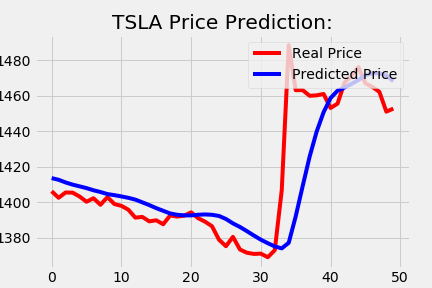
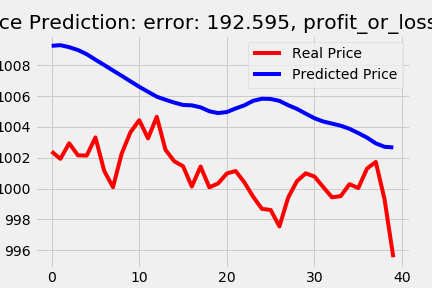
calculate prediction for next 30 mins

diff --git a/forecast/tsla_price_prediction.py b/forecast/tsla_price_prediction.py
@@ -20,7 +20,7 @@ plt.style.use("fivethirtyeight")
 
 df = pd.read_csv("../data/TSLA.csv")
 df = df.filter(["closePrice"])
-df = df.tail(1000)
+df = df.tail(10000)
 
 dataset = df.values
 
@@ -35,10 +35,11 @@ train_data = scaled_data[0:training_data_len, :]
 BATCH_SIZE = 60
 x_train = []
 y_train = []
+NEXT_PREDICTION_STEP = 30
 
-for i in range(BATCH_SIZE, len(train_data)):
+for i in range(BATCH_SIZE, len(train_data) - NEXT_PREDICTION_STEP):
     x_train.append(train_data[i - BATCH_SIZE : i, 0])
-    y_train.append(train_data[i, 0])
+    y_train.append(train_data[i + NEXT_PREDICTION_STEP, 0])
 
 x_train, y_train = np.array(x_train), np.array(y_train)
 x_train = np.reshape(x_train, (x_train.shape[0], x_train.shape[1], 1))
@@ -68,27 +69,27 @@ history = model.fit(
 test_data = scaled_data[training_data_len - BATCH_SIZE :, :]
 
 x_test = []
-y_test = dataset[training_data_len:, :]
+y_test = dataset[training_data_len + NEXT_PREDICTION_STEP :, :]
+y_test_previous = dataset[training_data_len:-NEXT_PREDICTION_STEP, :]
 
-for i in range(BATCH_SIZE, len(test_data)):
+for i in range(BATCH_SIZE, len(test_data) - NEXT_PREDICTION_STEP):
     x_test.append(test_data[i - BATCH_SIZE : i, :])
-    # y_test.append(test_data[i, 0])
 
 x_test = np.array(x_test)
-# x_test, y_test = np.array(x_test), np.array(y_test)
-
-
-#%% Evaluate Model
-model_evaluation_result = model.evaluate(x_test, y_test, batch_size=BATCH_SIZE)
-print(model_evaluation_result)
 
 # %% Run Prediction
 y_predict = model.predict(x_test)
 y_predict = scaler.inverse_transform(y_predict)
 
 #%% Calculate root mean square error
-rmse = np.sqrt(np.mean(((y_predict - y_test) ** 2)))
-print(rmse)
+error = sum(abs(y_predict - y_test))[0]
+
+profit_or_loss = 0
+for i in range(0, len(y_test)):
+    if y_predict[i] > y_test_previous[i]:
+        profit_or_loss += y_test[i] - y_test_previous[i]
+
+profit_or_loss = profit_or_loss[0]
 
 #%% Plot results
 plt.close()
@@ -96,8 +97,8 @@ fig = plt.gcf()
 
 plt.plot(y_test[-1000:], color="red", label="Real Price")
 plt.plot(y_predict[-1000:], color="blue", label="Predicted Price")
-title = "TSLA Price Prediction: test_score: {result:.3f}".format(
-    result=model_evaluation_result
+title = "TSLA Price Prediction: error: {error:.3f}, profit_or_loss: {profit_or_loss:.3f}".format(
+    error=error, profit_or_loss=profit_or_loss
 )
 plt.title(title)
 plt.xlabel("Time")
